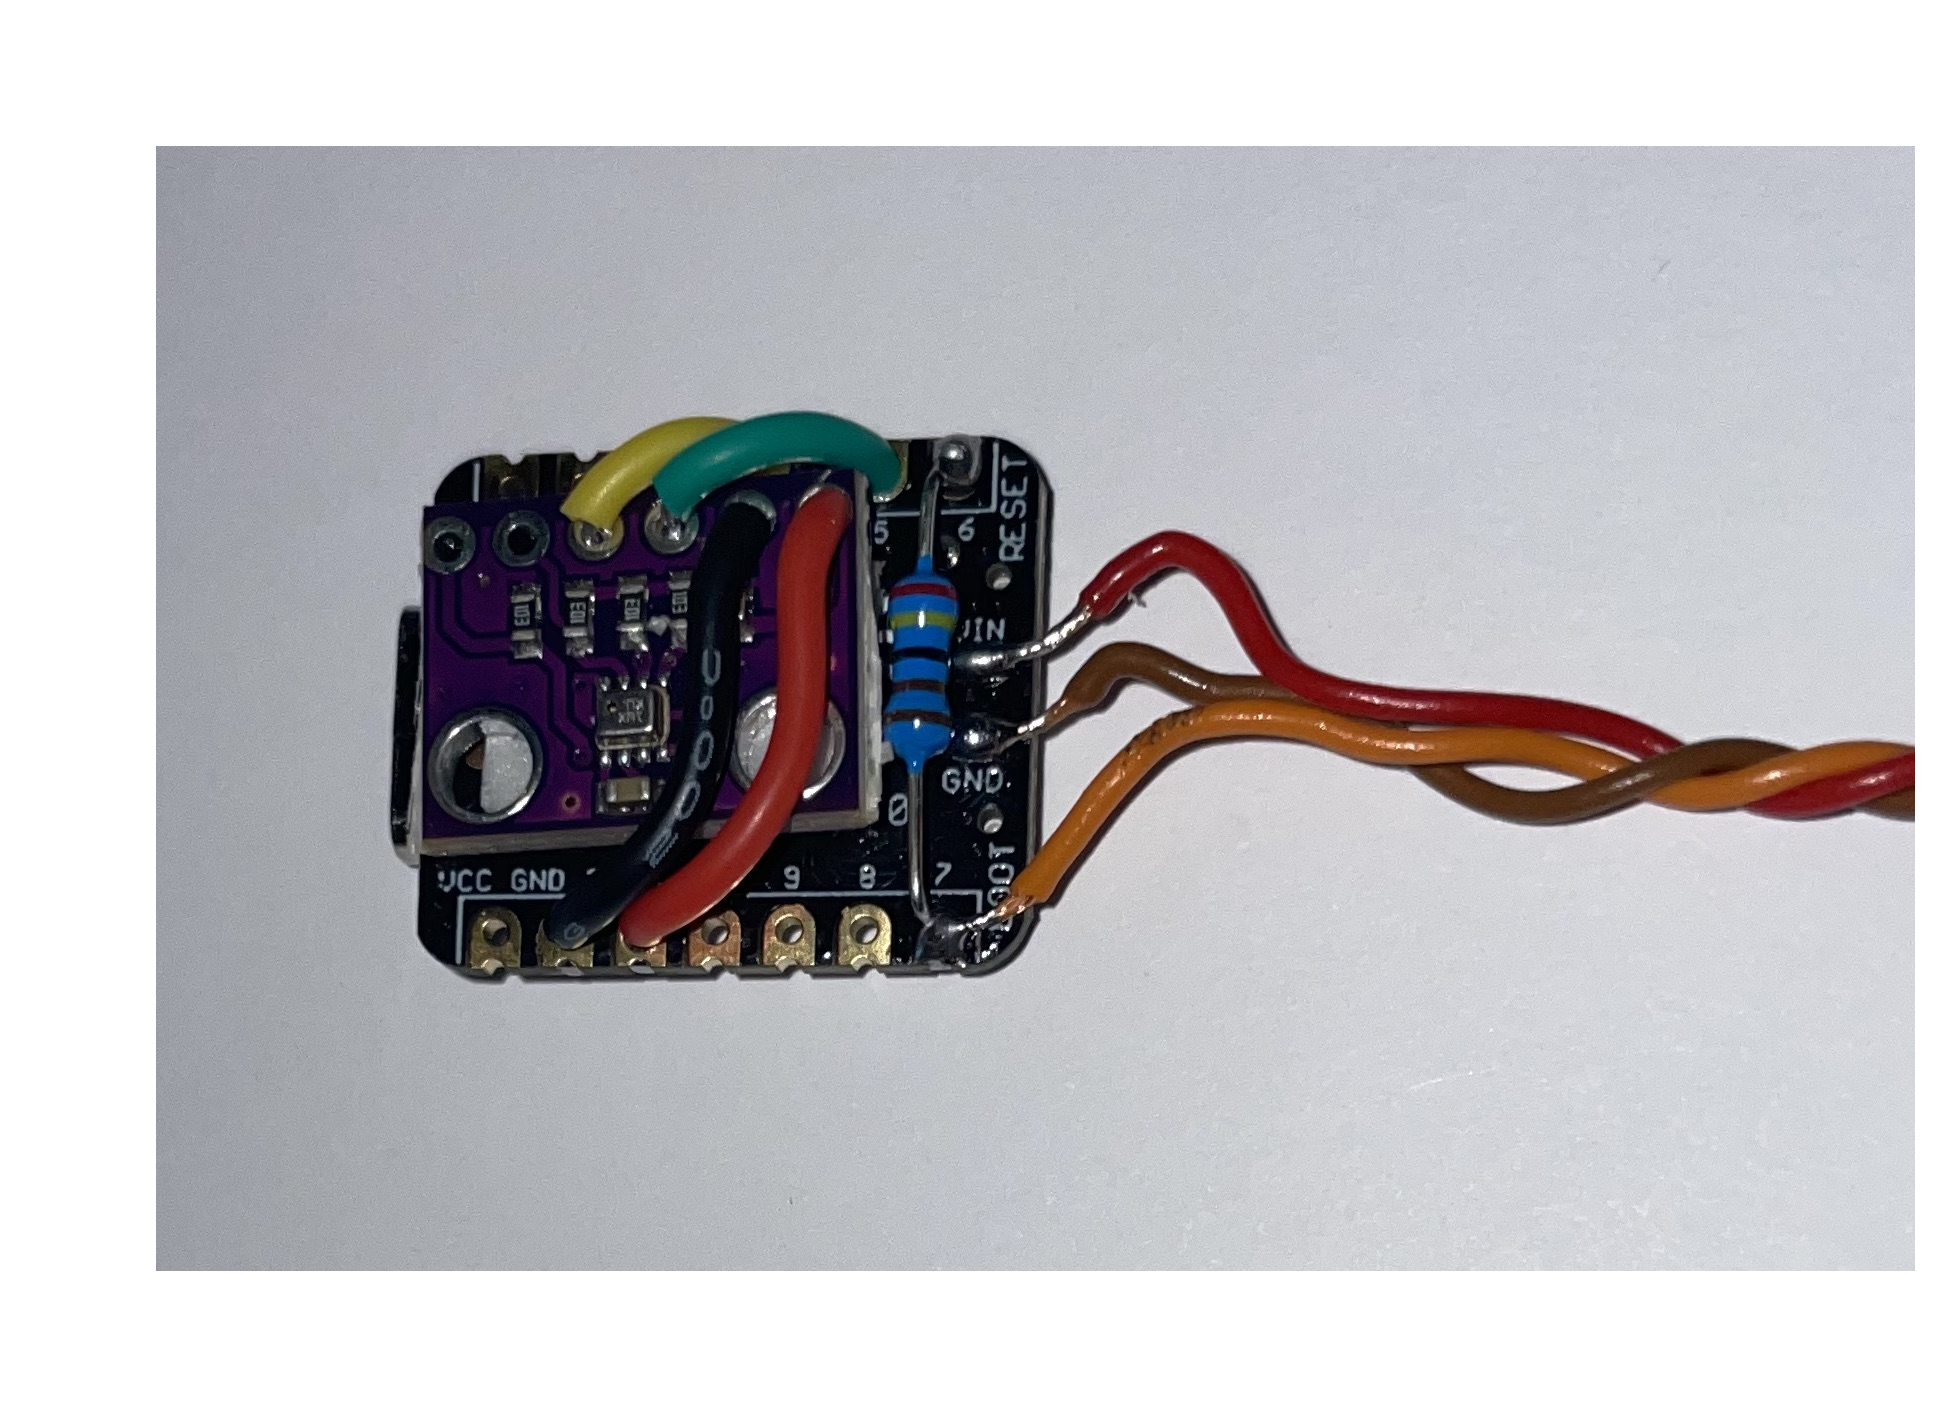
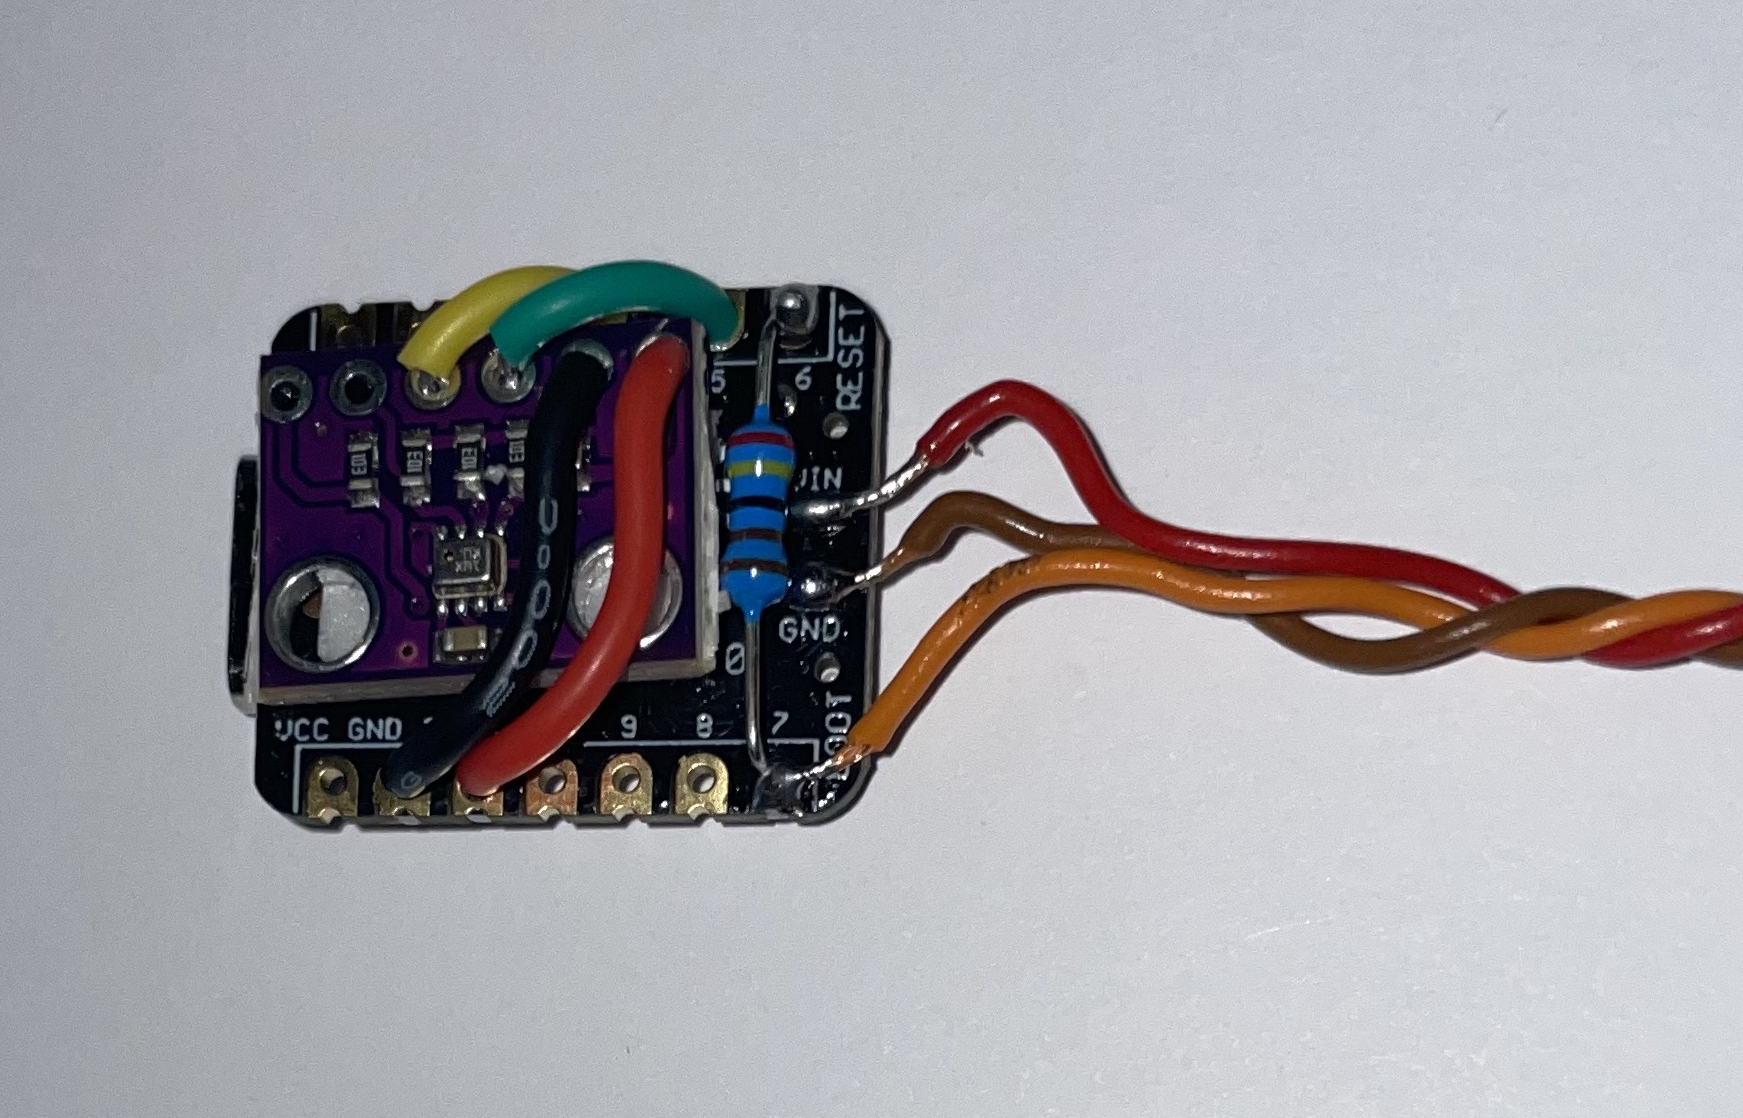
update README and images

diff --git a/README.md b/README.md
@@ -29,19 +29,27 @@ This will allow to use boards like Raspbery Pi, ESP32 or similar to act as a sen
 ## Features
 
  - Pure Python (MicroPython) impementation of the Jeti Ex Bus protocol
- - Runs on boards which are supported by MicroPython (see [forum](https://forum.micropython.org/viewforum.php?f=10) or [code repository](https://github.com/micropython/micropython/tree/master/ports))
- - Simple firmware/software update via USB
+ - Runs on two core boards which are supported by MicroPython (see [forum](https://forum.micropython.org/viewforum.php?f=10) or [code repository](https://github.com/micropython/micropython/tree/master/ports))
+ - Two core implementation
+   - Core-0 handles the transfer of JETI telemetry data via UART
+   - Core-1 does the sensor reading via I2C and prepares the packets for the EX and EX-BUS protocol
+ - Simple firmware/software update via USB-C
  - Easy logging of sensor data on the board
 
 ## Boards
 
- - [TINY 2040](https://shop.pimoroni.com/products/tiny-2040) (22.9 x 18.2)
+ ### Tested
+ - [Pimoroni TINY 2040](https://shop.pimoroni.com/products/tiny-2040) (22.9 x 18.2 mm)
    - 133 MHz Cortex-M0+
    - 8MB QSPI flash
- - Planned: [ESP32](https://en.wikipedia.org/wiki/ESP32)
+- [Seeed Studio XIAO RP2040](https://www.seeedstudio.com/XIAO-RP2040-v1-0-p-5026.html) (21 x 17.5 mm)
+   - 133 MHz Cortex-M0+
+   - 8MB QSPI flash
+ ### Planned
+ - [ESP32](https://en.wikipedia.org/wiki/ESP32)
    - 160 MHz - 240 MHz
    - up to 16 Mb flash memory
-   - Wi-Fi (use the phone as a JetiBox ???)
+   - Wi-Fi
 
 ## Dependencies
 
@@ -53,9 +61,7 @@ This will allow to use boards like Raspbery Pi, ESP32 or similar to act as a sen
 
  The Jeti telemetry runs via a half-duplex serial communication protocol. This means that there is a master (receiver) controlling the data flow and a slave (microcontroller/sensor) which is only allowed to answer upon request from the master. The master reserves a 4ms period for this to work. Measurments show approximately a 6ms period (see Fig. 4).
 
- The connection between the board and the sensors is established via [I2C](https://de.wikipedia.org/wiki/I%C2%B2C). Four wires are (vcc, gnd, sda, scl) needed to connect each of the sensors.
- 
-> NOTE: During testing the microcontroller is supplied via USB power (thus no vcc connection between board and receiver) and the Jeti receiver is powered via 4S NiMH batteries. They share a common ground. In the real application the microcontroller will also be powered via the the battery (through the receiver).
+ The connection between the board and the sensors is established via [I2C](https://de.wikipedia.org/wiki/I%C2%B2C). Four wires (vcc, gnd, sda, scl) are needed to connect each of the sensors.
 
 </br>
 
@@ -75,7 +81,7 @@ This will allow to use boards like Raspbery Pi, ESP32 or similar to act as a sen
 The program logic consists of two parts. Those are the similar to the Arduino <b>*setup()*</b> and <b>*loop()*</b> functions.
 
   * In the beginning the communication channels (UART, I2C) are initialized. A serial connection (UART) is established between the microcontroller and the receiver. Additionally an I2C connection is setup between the microcontroller and the sensor(s).
-  * After the setup of the communication, the main (infinite) loop starts. 
+  * After the setup of the communication, the two main (infinite) loops start, one infinite loop on each core. 
 
 </br>
 
@@ -91,7 +97,7 @@ The program logic consists of two parts. Those are the similar to the Arduino <b
 </br>
 
 ## Sample EX Bus data stream
-Written by function [Streamrecorder.py](https://github.com/chiefenne/JETI_EX_BUS/blob/main/src/Utils/Streamrecorder.py).
+Written by the function [Streamrecorder.py](https://github.com/chiefenne/JETI_EX_BUS/blob/main/src/Utils/Streamrecorder.py) which should only be activated to record the serial stream. This is only meaningful for debugging purposes.
 
 The receiver is the master and triggers the half-duplex communication. As an example **3e:03** is the beginning of a packet containing channel data sent by the receiver (the packet describes the current actuator settings of the transmitter). A telemetry request (from receiver/master to the microcontroller/sensor) is indicated by **3d:01** which is the start of an 8 byte packet. After this there is a 4ms window to send telemetry data back from the board to the receiver (not visible in this data stream).
 
@@ -167,11 +173,41 @@ The next figure depicts a telemetry answer from the microcontroller/sensor (slav
 
 <br>
 
-## Connecting TINY 2040 and receiver
+## Connecting XIAO RP2040 and receiver with a BME280 sensor
 
-### Setup used during develompent and testing
+### Setup used for develompent, testing and real application
+<br>
 
-The following image shows the components and connections as used during the development.
+<p align="center">
+  <kbd> <!-- make a frame around the image -->
+    <img src="docs/images/setup_XIAO2040_JetiRex6_04.png" width="600" />
+  </kbd>
+</p>
+<p align="center">
+    <i>Fig. 7: BME280 sensor at first connected to SDA, SCL. The sensor is then flipped down.</i>
+</p>
+
+<br>
+
+A resistor (2.4 k&Omega; up to a few k&Omega;s) needs to be soldered between TX (pin D6) and RX (pin D7) as per the JETI documentation.
+<br>
+
+<p align="center">
+  <kbd> <!-- make a frame around the image -->
+    <img src="docs/images/JETI_TX_RX_resistor.png" width="400" />
+  </kbd>
+</p>
+<p align="center">
+    <i>Fig. 8: JETI half-duplex wiring (resistor 2.4k&Omega; up to a few k&Omega;s)</i>
+</p>
+
+<br>
+
+The following images show the components and connections for a XIAO RP2040 board. For other boards the respective UART pins (TX, RX) have to be selected according the board specific pinout. After the pressure sensor is flipped down, the power and ground (GND) connections can be established. Double-sided adhesive tape or hot glue fix the board and the sensor to each other.
+
+The voltage requirements of the sensor have to be checked, in this case it runs on 3.3V. The respective pin on the board (which outputs this voltage) has then to be connected to VIN on the sensor.
+
+The servo cable (red, brown, orange) is soldered according to the image below. The servo signal cable (orange) goes to RX (pin D7). The VIN pin needs to work with 5V. If the board is connected to a USB-C cable then this pin outputs approximately 5V and powers the receiver if it is attached. If used in the RC plane then the power comes from the receiver to the board.
 
 <!-- HTML syntax for image display allows to change the image size -->
 
@@ -179,44 +215,29 @@ The following image shows the components and connections as used during the deve
 
 <p align="center">
   <kbd> <!-- make a frame around the image -->
-    <img src="docs/images/setup_TINY2040_JetiRex6_04.png" width="600" />
+    <img src="docs/images/setup_XIAO2040_JetiRex6_01.png" width="600" />
   </kbd>
 </p>
 <p align="center">
-    <i>Fig. 7: Development setup. Note: no vcc from receiver to microcontroller.</i>
+    <i>Fig. 9: Setup with a BME280 sensor. 3.3V (red) and GND (black) from board to sensor</i>
 </p>
 
 <br>
 
 <p align="center">
   <kbd> <!-- make a frame around the image -->
-    <img src="docs/images/setup_TINY2040_JetiRex6_03.png" width="600" />
+    <img src="docs/images/setup_XIAO2040_JetiRex6_02.png" width="600" />
   </kbd>
 </p>
 <p align="center">
-    <i>Fig. 8: Development setup. Closeup view.</i>
+    <i>Fig. 10: Data (SDA, yellow) and clock (SCL, green) connections for I2C bus</i>
 </p>
 
 <br>
-
-The figure below shows how the signal cable coming from the receiver is "split" to create the half-duplex communication. The resistor is soldered only on one of the split wires. The wire with the resistor needs to be connected with the <b>TX</b> pin of the board. The other wire connects to the <b>RX</b> pin respectively.
-
-<br>
-
-<p align="center">
-  <kbd> <!-- make a frame around the image -->
-    <img src="docs/images/setup_Pyboard_JetiRex6_02.png" height="600" />
-  </kbd>
-</p>
-<p align="center">
-    <i>Fig. 9: Development setup (here on the Pyboard). Closeup view on the cable split and resistor.</i>
-</p>
-
-<br>
-
-The Pyboard is in a small housing and a Jeti REX6 receiver is attached. The yellow wire (here channel 6 on the receiver) splits into two wires (one with a 2.4kOhm resistor as per the Jeti specification) which are connected to TX(Y9) and RX(Y10) on UART(3) on the Pyboard. The black wire establishes a common ground. The receiver is powered by a 4S NiMH accumulator via channel 1. Channel 6 of the receiver was set to "Ex Bus" (see image below) in the device manager of the Jeti transmitter.
 
 ### Channel setup in the device manager of the transmitter
+
+Below figure depicts the JETI display for the receiver settings (German language).
 
 <br>
 
@@ -226,7 +247,7 @@ The Pyboard is in a small housing and a Jeti REX6 receiver is attached. The yell
   </kbd>
 </p>
 <p align="center">
-    <i>Fig. 10: The receiver channel where the microcontroller is connected needs the <b>EX Bus</b> setting.</i>
+    <i>Fig. 11: The receiver channel where the microcontroller is connected needs the <b>EX Bus</b> setting activated</i>
 </p>
 
 <br>
@@ -241,14 +262,14 @@ The Pyboard is in a small housing and a Jeti REX6 receiver is attached. The yell
   </kbd>
 </p>
 <p align="center">
-    <i>Fig. 11: Comparison of standard servo cable vs. EX bus cable attached to a RP2040 Zero.</i>
+    <i>Fig. 12: Comparison of standard servo cable vs. EX bus cable attached to a RP2040 Zero</i>
 </p>
 
 <br>
 
-Connection cable for the EX Bus. A standard RC servo cable has 3 wires (signal, vcc, gnd). When connecting to an EX Bus channel on the receiver, one needs one wire (yellow here) which splits into two wires (yellow, green). The yellow cable gets a resistor (2.4k&Omega;) soldered in line which needs to be connected to <b>*TX*</b> on the microcontroller. The green cable splits off the yellow cable before the transistor and needs to be connected to <b>*RX*</b> on the microcontroller.
+Connection cable for the EX Bus. A standard RC servo cable has 3 wires (signal, vcc, gnd). When connecting to an EX Bus channel on the receiver, one needs one wire (yellow here) which splits into two wires (yellow, green). The yellow cable gets a resistor (2.4k&Omega; up to 10k&Omega;s) soldered in line which needs to be connected to <b>*TX*</b> on the microcontroller. The green cable splits off the yellow cable before the transistor and needs to be connected to <b>*RX*</b> on the microcontroller.
 
- The yellow wire is the one that needs to be connected to the signal pin on the receiver. The black wire (as described above) establishes a common ground between receiver and the microcontroller. Since the board is powered via USB here, we do not need to connect the vcc (red plus wire). This is obviously only meaningful, while in a development phase on the computer. In normal operation, the board running MicroPython would need a voltage supply (normally it comes from the receiver then).
+This setup can be simplified as shown on the real sensor (see figures 9, 10). The resitor is soldered between TX and RX and the signal cable (yellow here) is connected to TX directly.
 
 <br><br>
 2023 Andreas Ennemoser – andreas.ennemoser@aon.at
